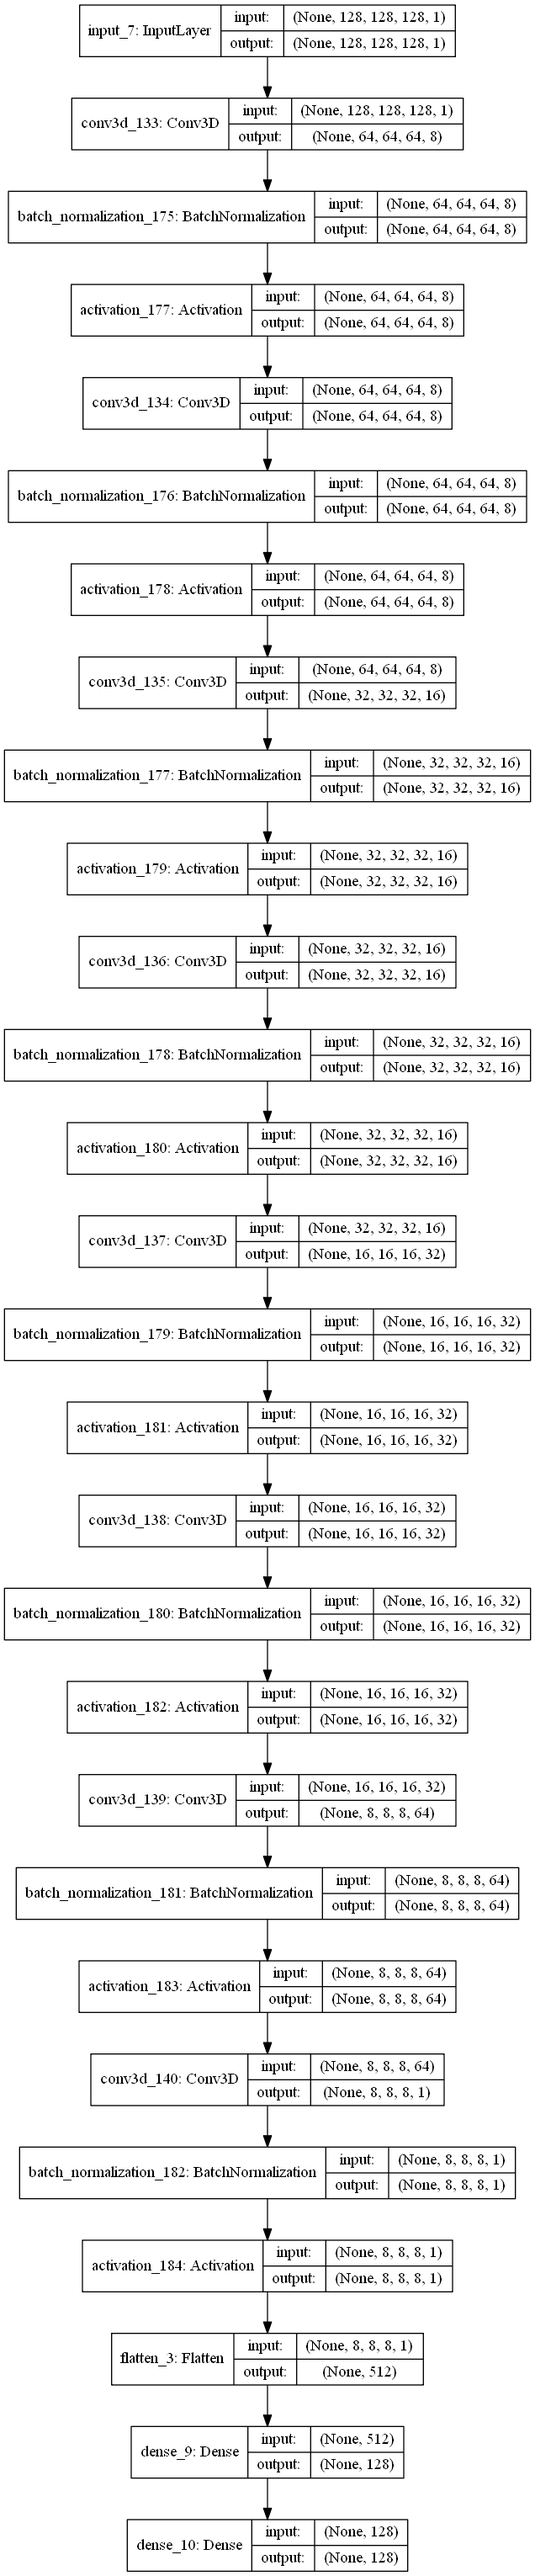
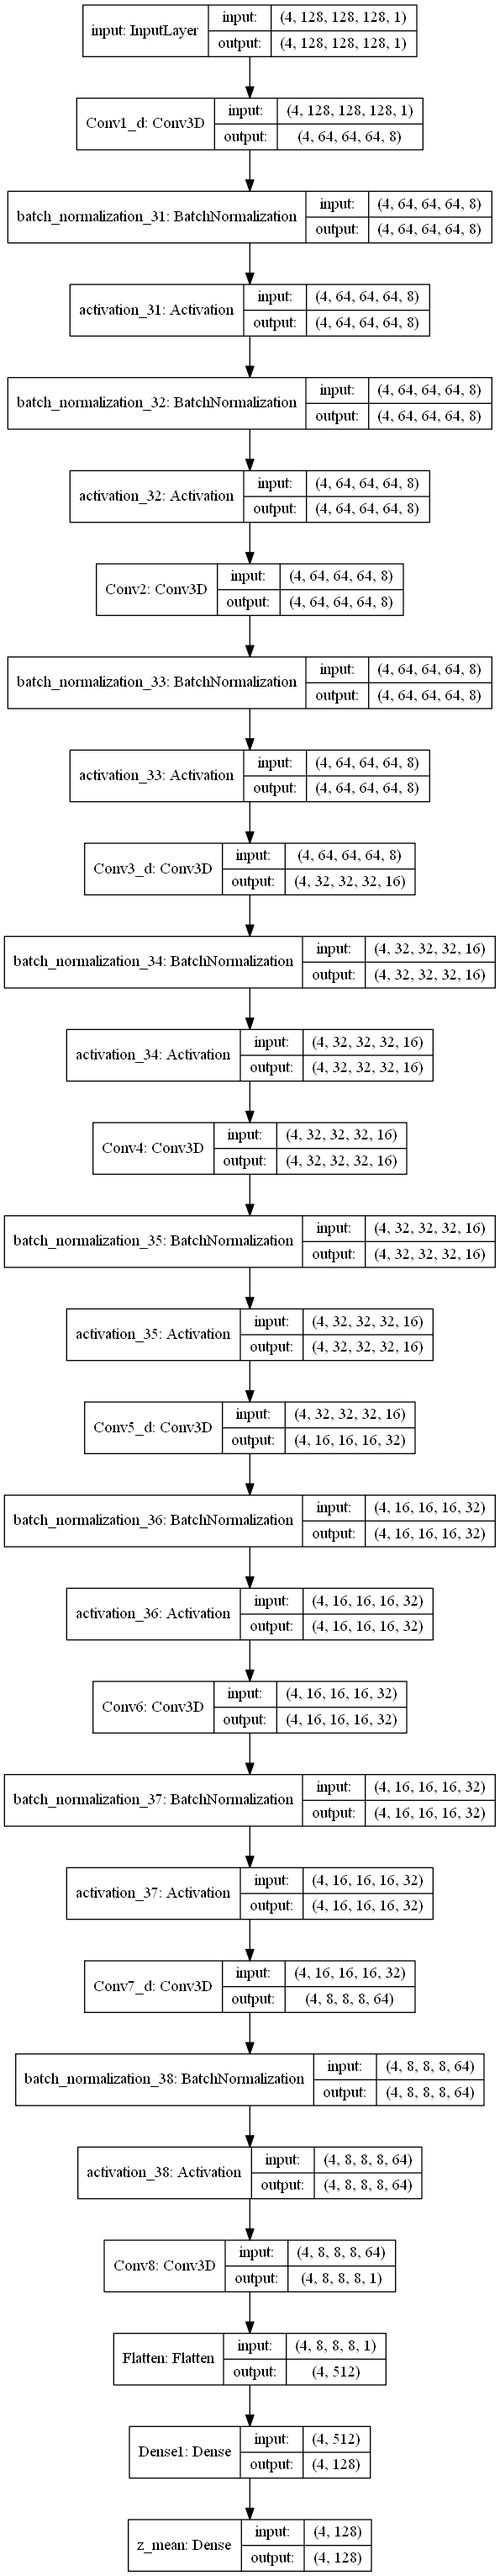
Models and Train code corrected and refactored

diff --git a/Models/CVAE_3D.py b/Models/CVAE_3D.py
@@ -11,50 +11,69 @@ Created on Mon Jun  4 19:57:08 2018
 import tensorflow as tf
 import keras.backend as K
 
-def ConvBlock(x, filters, kernel, strides):
+def ConvBN(x, filters, strides, name):
+    kernel=(3,3,3)
     x = tf.keras.layers.Conv3D(filters, kernel, strides,
-                               padding='same', activation=None)(x)
+                               padding='same', activation=None, name=name)(x)
     x = tf.keras.layers.BatchNormalization()(x)
     x = tf.keras.layers.Activation(tf.keras.activations.relu)(x)
     return x
 
-def UpConvBlock(x, filters, kernel, strides):
+def UpConvBN(x, filters, strides, name):
+    kernel=(2,2,2)
     x = tf.keras.layers.Conv3DTranspose(filters, kernel, strides,
-                                        padding='same', activation=None)(x)
+                                        padding='same', activation=None, name=name)(x)
     x = tf.keras.layers.BatchNormalization()(x)
     x = tf.keras.layers.Activation(tf.keras.activations.relu)(x)
+    return x
+
+def BNConv(xin, filters, strides, name):
+    kernel=(3,3,3)
+    x = tf.keras.layers.BatchNormalization()(xin)
+    x = tf.keras.layers.Activation(tf.keras.activations.relu)(x)
+    x = tf.keras.layers.Conv3D(filters, kernel, strides,
+                               padding='same', activation=None, name=name)(x)
+    return x
+
+def BNUpConv(xin, filters, strides, name):
+    kernel=(2,2,2)
+    x = tf.keras.layers.BatchNormalization()(xin)
+    x = tf.keras.layers.Activation(tf.keras.activations.relu)(x)
+    x = tf.keras.layers.Conv3DTranspose(filters, kernel, strides=strides,
+                                        padding='same', activation=None, name=name)(x)
     return x
 
 def Generator(latent_dim):
-    generator_input = tf.keras.layers.Input(shape=(latent_dim,))
-    x = tf.keras.layers.Dense(512, activation='relu')(generator_input)
-    x = tf.keras.layers.Reshape((8,8,8,1))(x)
-    x = UpConvBlock(x, filters=32, kernel=(2,2,2), strides=(2,2,2))
-    x = ConvBlock(x, filters=32, kernel=(3,3,3), strides=(1,1,1))
-    x = UpConvBlock(x, filters=16, kernel=(2,2,2), strides=(2,2,2))
-    x = ConvBlock(x, filters=16, kernel=(3,3,3), strides=(1,1,1))
-    x = UpConvBlock(x, filters=8, kernel=(2,2,2), strides=(2,2,2))
-    x = ConvBlock(x, filters=8, kernel=(3,3,3), strides=(1,1,1))
-    x = UpConvBlock(x, filters=8, kernel=(2,2,2), strides=(2,2,2))
+    generator_input = tf.keras.layers.Input(shape=(latent_dim,), name='input')
+    x = tf.keras.layers.Dense(512, activation='relu', name='Dense2')(generator_input)
+    x = tf.keras.layers.Reshape((8,8,8,1), name='Reshape')(x)
+    x = UpConvBN(x, filters=32, strides=(2,2,2), name='UpConv1')
+    x = BNConv(x, filters=32, strides=(1,1,1), name='Conv9')
+    x = UpConvBN(x, filters=16, strides=(2,2,2), name='UpConv2')
+    x = BNConv(x, filters=16, strides=(1,1,1), name='Conv10')
+    x = UpConvBN(x, filters=8, strides=(2,2,2), name='UpConv3')
+    x = BNConv(x, filters=8, strides=(1,1,1), name='Conv11')
+    x = UpConvBN(x, filters=8, strides=(2,2,2), name='UpConv4')
     x_generated = tf.keras.layers.Conv3D(filters=1, kernel_size=(3,3,3), strides=(1,1,1),
-                               padding='same', activation='sigmoid')(x)
+                               padding='same', activation='sigmoid', name='output')(x)
     generator = tf.keras.Model(generator_input, x_generated)
     return generator
     
 def CVAE(img_size, batch_size, latent_dim):
-    inLayer = tf.keras.layers.Input(shape=img_size)
-    x = ConvBlock(inLayer, filters=8, kernel=(3,3,3), strides=(2,2,2))
-    x = ConvBlock(x, filters=8, kernel=(3,3,3), strides=(1,1,1))
-    x = ConvBlock(x, filters=16, kernel=(3,3,3), strides=(2,2,2))
-    x = ConvBlock(x, filters=16, kernel=(3,3,3), strides=(1,1,1))
-    x = ConvBlock(x, filters=32, kernel=(3,3,3), strides=(2,2,2))
-    x = ConvBlock(x, filters=32, kernel=(3,3,3), strides=(1,1,1))
-    x = ConvBlock(x, filters=64, kernel=(3,3,3), strides=(2,2,2))
-    x = ConvBlock(x, filters=1, kernel=(1,1,1), strides=(1,1,1))
-    x = tf.keras.layers.Flatten()(x)
-    x = tf.keras.layers.Dense(latent_dim, activation='tanh')(x)
-    z_mean = tf.keras.layers.Dense(latent_dim)(x)
-    z_log_var = tf.keras.layers.Dense(latent_dim)(x)
+    inLayer = tf.keras.layers.Input(batch_shape=(batch_size,) + img_size, name='input')
+#    inLayer = tf.keras.layers.Input(shape=img_size, name='input')
+    x = ConvBN(inLayer, filters=8, strides=(2,2,2), name='Conv1_d')
+    x = BNConv(x, filters=8, strides=(1,1,1), name='Conv2')
+    x = BNConv(x, filters=16, strides=(2,2,2), name='Conv3_d')
+    x = BNConv(x, filters=16, strides=(1,1,1), name='Conv4')
+    x = BNConv(x, filters=32, strides=(2,2,2), name='Conv5_d')
+    x = BNConv(x, filters=32, strides=(1,1,1), name='Conv6')
+    x = BNConv(x, filters=64, strides=(2,2,2), name='Conv7_d')
+    x = BNConv(x, filters=1, strides=(1,1,1), name='Conv8')
+    x = tf.keras.layers.Flatten(name='Flatten')(x)
+    x = tf.keras.layers.Dense(latent_dim, activation='sigmoid', name='Dense1')(x)
+    z_mean = tf.keras.layers.Dense(latent_dim, name='z_mean')(x)
+    z_log_var = tf.keras.layers.Dense(latent_dim, name='z_var')(x)
     
     epsilon_std = 1.0
     def sampling(args):
@@ -102,11 +121,9 @@ def CVAE(img_size, batch_size, latent_dim):
     
 if __name__ == '__main__':
     img_size = (128,128,128,1)
-    batch_size = 1
+    batch_size = 4
     latent_dim = 128
     encoder, generator, CVAE_3D = CVAE(img_size, batch_size, latent_dim)
-    opt = tf.keras.optimizers.Adam(lr=0.001, decay=1e-6)
-    CVAE_3D.compile(optimizer=opt, loss=None)
     CVAE_3D.summary()
     tf.keras.utils.plot_model(CVAE_3D, to_file='CVAE_Model.png', show_shapes=True)
     tf.keras.utils.plot_model(encoder, to_file='CVAE_Encoder.png', show_shapes=True)

diff --git a/Train_AE.py b/Train_AE.py
@@ -11,8 +11,8 @@ import os, glob
 from Utils.utils import myPrint, myLog
 from Utils.utils import sortHuman
 
-model = 'CAE'
-#model = 'CVAE'
+#model = 'CAE'
+model = 'CVAE'
 resultsDir = './Results/'
 
 # Resume training
@@ -54,16 +54,16 @@ if continueFromLatRun:
 else:
     dTrain, dValid, _, _ = prepare_dataset(datasetDir, split=0.85, logPath=currDir)
 
-# Add random noise before training!
-myPrint('...Adding noise to images N(0,0.33)', path=currDir)
-import numpy as np
-noise_factor = 0.5 
-dTrain_noisy = dTrain + noise_factor * np.random.normal(loc=0.0, scale=0.33, size=dTrain.shape)
-dValid_noisy = dValid + noise_factor * np.random.normal(loc=0.0, scale=0.33, size=dValid.shape) 
+## Add random noise before training!
+#myPrint('...Adding noise to images N(0,0.33)', path=currDir)
+#import numpy as np
+#noise_factor = 0.5 
+#dTrain_noisy = dTrain + noise_factor * np.random.normal(loc=0.0, scale=0.33, size=dTrain.shape)
+#dValid_noisy = dValid + noise_factor * np.random.normal(loc=0.0, scale=0.33, size=dValid.shape) 
 
 ##-------Visualize Dataset-------#
 #from Utils.utils import visualizeDataset
-#visualizeDataset(dTrain_noisy[0:16], plotSize=[4,4])
+#visualizeDataset(dTrain[0:16], plotSize=[4,4])
 
 
 '''--------------Build Model--------------'''
@@ -102,7 +102,7 @@ def summary(model): # Compute number of params in a model (the actual number of 
 img_size = dTrain.shape[1:]
 #img_size = (None, None, None, 1)
 latent_dim = 128
-batch_size = 4
+batch_size = 1
 myPrint('...Input image size: {}'.format(img_size), path=currDir)
 myPrint('...Batch size: {}'.format(batch_size), path=currDir)
 
@@ -111,22 +111,24 @@ def get_lr_metric(optimizer):
         return optimizer.lr
     return lr
 
-lr = 0.01
-decay = 1e-2
+lr = 0.001
+decay = 1e-3
+#opt = tf.keras.optimizers.Adam(lr=0.01, decay=1e-5)
+opt = tf.keras.optimizers.Adam(lr=lr)
+lr_metric = get_lr_metric(opt)
 
 if model == 'CAE':
     fullModel = CAE_3D.FullModel(img_size, latent_dim)
     encoder = CAE_3D.get_encoder_from_CAE3D(fullModel)
+    fullModel.compile(optimizer=opt, loss=dice_coef_loss, metrics=[lr_metric],
+            options=run_opts)
 
 elif model == 'CVAE':
     encoder, generator, fullModel = CVAE_3D.CVAE(img_size, batch_size, latent_dim)
     tf.keras.utils.plot_model(generator, to_file=currDir+'/reports/' + model + '_3D_generator.png', show_shapes=True)
-
-#opt = tf.keras.optimizers.Adam(lr=0.01, decay=1e-5)
-opt = tf.keras.optimizers.Adam(lr=lr)
-lr_metric = get_lr_metric(opt)
-fullModel.compile(optimizer=opt, loss=dice_coef_loss, metrics=['accuracy', lr_metric],
+    fullModel.compile(optimizer=opt, loss=None, metrics=[lr_metric],
             options=run_opts)
+
 summary(fullModel)
 tf.keras.utils.plot_model(fullModel, to_file=currDir+'/reports/' + model + '_3D_Model.png', show_shapes=True)
 tf.keras.utils.plot_model(encoder, to_file=currDir+'/reports/' + model + '_3D_encoder.png', show_shapes=True)
@@ -170,9 +172,14 @@ logger = tf.keras.callbacks.CSVLogger(currDir+'/reports/training.log', separator
 tensorBoard = tf.keras.callbacks.TensorBoard(log_dir='./tensorboard/'+model+currRun)
 lrs = tf.keras.callbacks.LearningRateScheduler(lambda epoch: lr / (1. + decay * epoch))
 callbacks = [tensorBoard, model_checkpoint, logger, MyCallback(), lrs]
-
-fullModel.fit(dTrain_noisy, dTrain, shuffle=True, epochs=epochs, batch_size=batch_size,
-           validation_data=(dValid_noisy, dValid), callbacks=callbacks)
+if model == 'CAE':
+    fullModel.fit(dTrain, dTrain, shuffle=True, epochs=epochs, batch_size=batch_size,
+           validation_data=(dValid, dValid), callbacks=callbacks)
+if model == 'CVAE':
+    fullModel.fit(dTrain, shuffle=True, epochs=epochs, batch_size=batch_size,
+               validation_data=(dValid, None), callbacks=callbacks)
+    generator.save_weights(weightsDir+"/" + model + "_3D_generator.hdf5")
+    
 encoder.save_weights(weightsDir+"/" + model + "_3D_encoder.hdf5")
 
 end = datetime.datetime.now()

diff --git a/Predict_AE.py b/Predict_AE.py
@@ -7,29 +7,56 @@ Created on Mon Jun 18 12:45:25 2018
 
 # In the name of GOD
 
-from Models import CAE_3D
+import tensorflow as tf
+K = tf.keras.backend
+num_cores = 4
+GPU = True
+if GPU:
+    num_GPU = 1
+    num_CPU = 1
+else:
+    num_CPU = 1
+    num_GPU = 0
+config = tf.ConfigProto(intra_op_parallelism_threads=num_cores,\
+        inter_op_parallelism_threads=num_cores, allow_soft_placement=True,\
+        device_count = {'CPU' : num_CPU, 'GPU' : num_GPU})
+session = tf.Session(config=config)
+K.set_session(session)
+
+
+from Models import CAE_3D, CVAE_3D
 from Utils.load_dataset import load_list
 
-modelName = 'CAE'
+#modelName = 'CAE'
+modelName = 'CVAE'
+noisy = False
+resultsDir = './Results/'
+run = 'run-2'
+currDir = resultsDir + modelName  + '/' + run
 
-run = 'run1'
-resultsPath = './Results/' + run
-listPath = resultsPath + '/reports/validation_list.txt' 
+listPath = currDir + '/reports/validation_list.txt' 
 testImages, testFiles = load_list(listPath)
 
 # Add random noise before training!
-print('...Adding noise to images N(0,0.33)')
-import numpy as np
-noise_factor = 0.5 
-dTrain_noisy = testImages + noise_factor * np.random.normal(loc=0.0, scale=0.33, size=testImages.shape)
+if noisy:
+    print('...Adding noise to images N(0,0.33)')
+    import numpy as np
+    noise_factor = 0.5 
+    testImages = testImages + noise_factor * np.random.normal(loc=0.0, scale=0.33, size=testImages.shape)
 
 img_size = testImages.shape[1:]
 latent_dim = 128
 if modelName == 'CAE':
     model = CAE_3D.FullModel(img_size, latent_dim)
-    weightsPath =resultsPath + '/weights/' + modelName + '_3D_model.hdf5'
-    model.load_weights(weightsPath)
     encoder = CAE_3D.get_encoder_from_CAE3D(model)
+
+elif modelName == 'CVAE':
+    batch_size = 1
+    encoder, generator, model = CVAE_3D.CVAE(img_size, batch_size, latent_dim)
+    
+weightsPath =currDir + '/weights/' + modelName + '_3D_model.hdf5'
+model.load_weights(weightsPath)
+    
     
 '''--------------Prediction---------------'''
 import numpy as np
@@ -38,7 +65,7 @@ import SimpleITK as sitk
 
 print('------------<  Dataset Info >------------')
 print('Model: ' + modelName)
-predDir = resultsPath + '/Predicted/'
+predDir = currDir + '/Predicted/'
 if not os.path.exists(predDir):
     os.mkdir(predDir)
 predicted = []

diff --git a/Models/CAE_3D.py b/Models/CAE_3D.py
@@ -19,20 +19,20 @@ def ConvBN(xin, filters, strides, name):
     x = tf.keras.layers.Activation(tf.keras.activations.relu)(x)
     return x
 
-def BNConv(xin, filters, strides, name):
-    kernel=(3,3,3)
-    x = tf.keras.layers.BatchNormalization()(xin)
-    x = tf.keras.layers.Activation(tf.keras.activations.relu)(x)
-    x = tf.keras.layers.Conv3D(filters, kernel, strides,
-                               padding='same', activation=None, name=name)(x)
-    return x
-
 def UpConvBN(xin, filters, strides, name):
     kernel=(2,2,2)
     x = tf.keras.layers.Conv3DTranspose(filters, kernel, strides=strides,
                                         padding='same', activation=None, name=name)(xin)
     x = tf.keras.layers.BatchNormalization()(x)
     x = tf.keras.layers.Activation(tf.keras.activations.relu)(x)
+    return x
+
+def BNConv(xin, filters, strides, name):
+    kernel=(3,3,3)
+    x = tf.keras.layers.BatchNormalization()(xin)
+    x = tf.keras.layers.Activation(tf.keras.activations.relu)(x)
+    x = tf.keras.layers.Conv3D(filters, kernel, strides,
+                               padding='same', activation=None, name=name)(x)
     return x
 
 def BNUpConv(xin, filters, strides, name):
@@ -96,7 +96,7 @@ def FullModel(img_size, latent_dim):
     x = BNConv(x, filters=8, strides=(1,1,1), name='Conv12')
     x = tf.keras.layers.Conv3D(filters=1, kernel_size=1)(x)
     x = tf.keras.layers.BatchNormalization()(x)
-    x = tf.keras.layers.Activation(tf.keras.activations.sigmoid)(x)
+    x = tf.keras.layers.Activation('sigmoid')(x)
     
     CAE_Model = tf.keras.Model(inLayer, x)
     return CAE_Model
